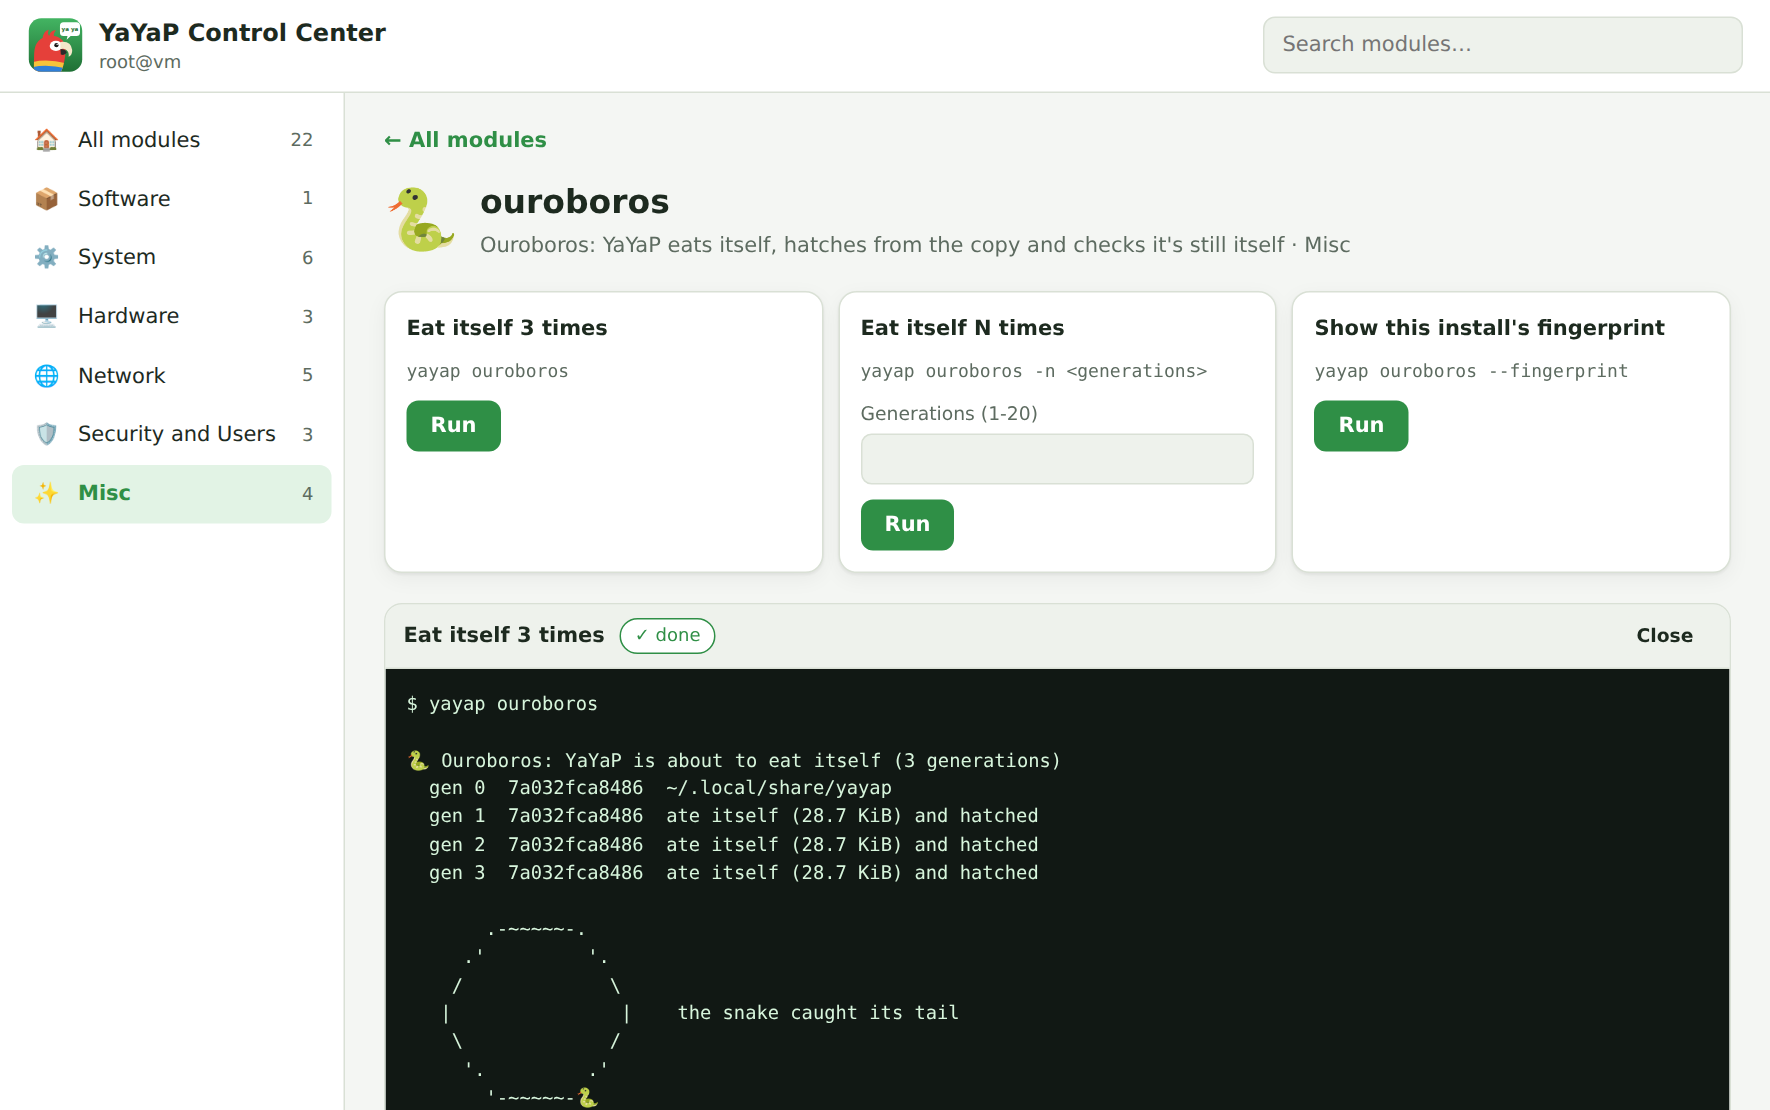
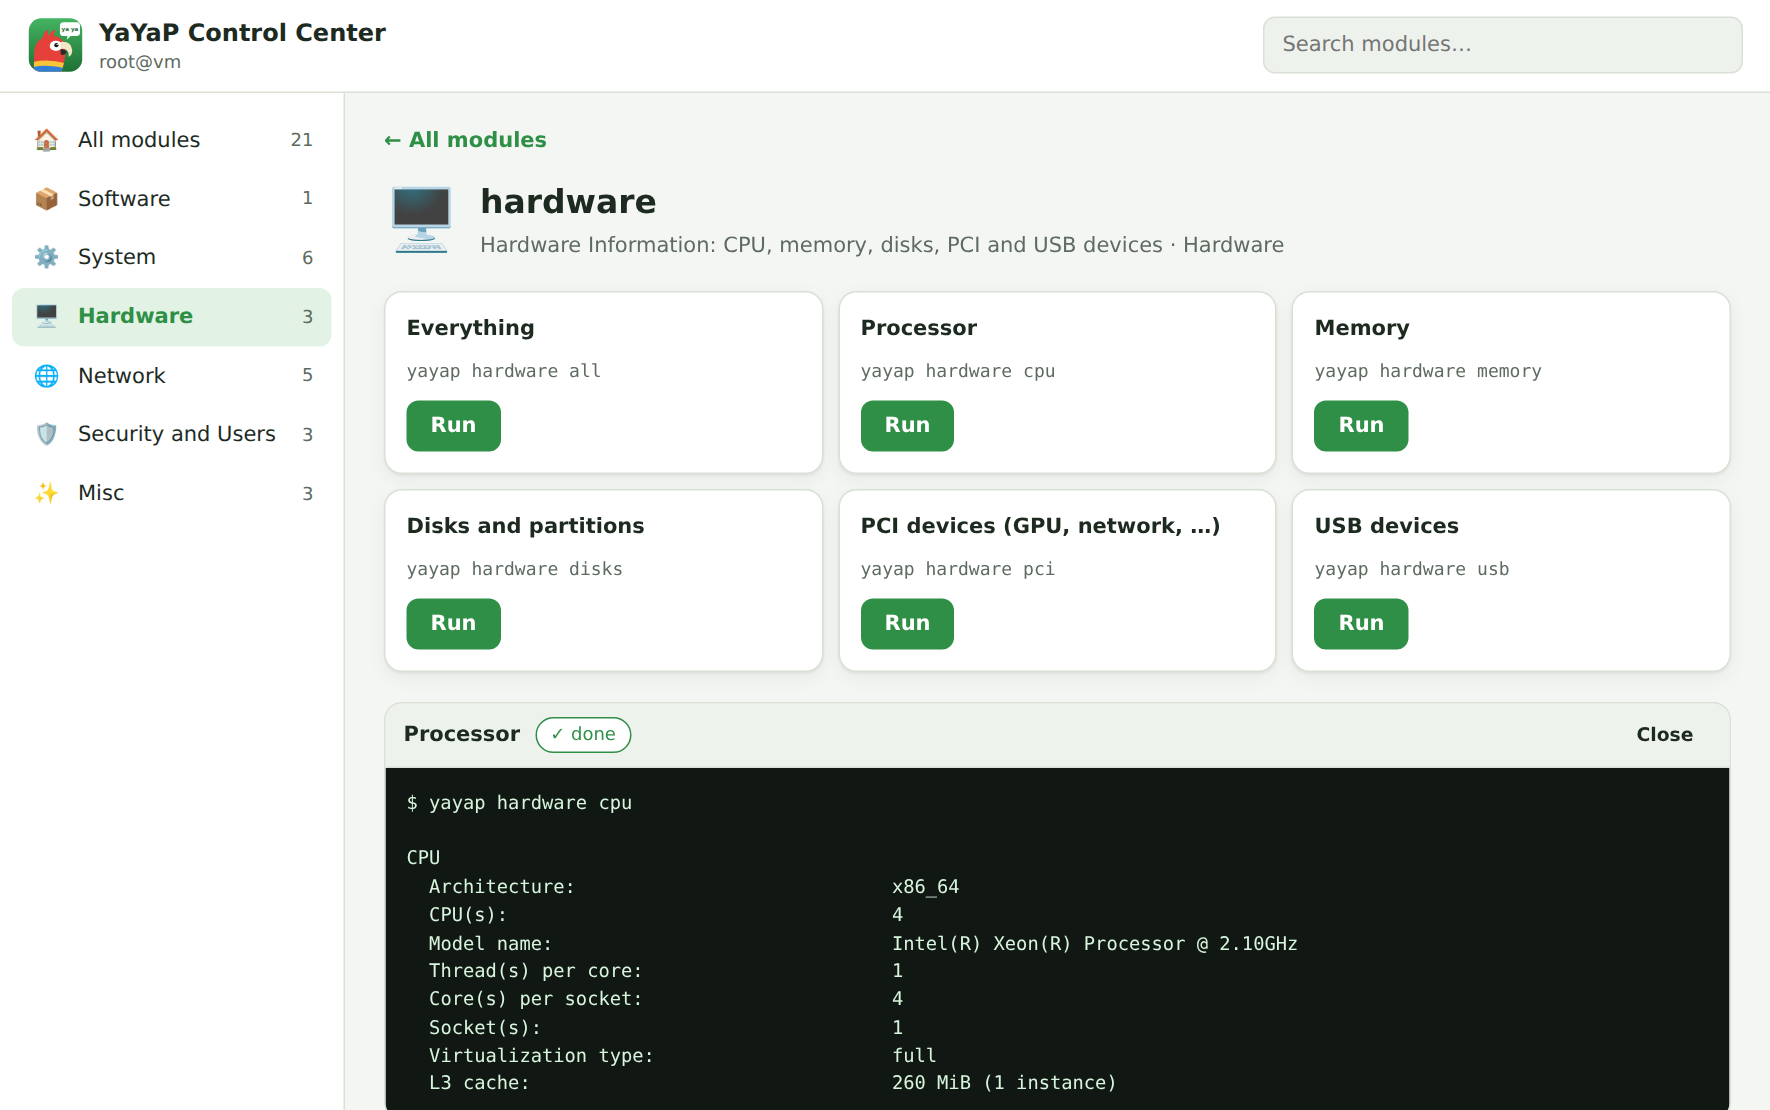
Remove the ouroboros (v0.4.1)
Drops the ouroboros module, its tests, the README section, and the
website's snake section, image and recorded run. The site's GUI
screenshot now shows the hardware module.

Claude-Session: https://claude.ai/code/session_013tVMPpAMwdRju3JtmdJvAv

diff --git a/site/index.html b/site/index.html
@@ -35,7 +35,7 @@
   a { color: var(--accent); }
   code, pre, kbd { font-family: ui-monospace, "JetBrains Mono", "DejaVu Sans Mono", Menlo, monospace; }
   .wrap { max-width: 1100px; margin: 0 auto; padding: 0 24px; }
-  .hero .wrap > *, .ouro .wrap > *, .split > * { min-width: 0; }   /* let code blocks scroll instead of widening the page */
+  .hero .wrap > *, .split > * { min-width: 0; }   /* let code blocks scroll instead of widening the page */
   @media (max-width: 480px) { .wrap { padding: 0 16px; } }
   section { padding: 84px 0; }
   section + section { border-top: 1px solid var(--border); }
@@ -104,33 +104,7 @@
   .cat .nm { font-family: ui-monospace, "DejaVu Sans Mono", monospace; font-weight: 700; font-size: 14.5px; }
   .cat .ab { color: var(--muted); font-size: 14px; }
 
-  /* ouroboros */
-  .ouro { background: var(--bg-2); }
-  .ouro .wrap { display: grid; grid-template-columns: .9fr 1.1fr; gap: 48px; align-items: center; }
-  .snake-stage { display: grid; place-items: center; }
-  .snake-box { position: relative; width: min(420px, 80vw); }
-  /* the ring isn't centred in the drawing: spin around the ring, not the picture */
-  .snake {
-    display: block; width: 100%; height: auto; transform-origin: 49.4% 53.4%;
-    animation: chase 40s linear infinite;
-    mix-blend-mode: multiply;   /* drops the drawing's white paper on light backgrounds */
-  }
-  @media (prefers-color-scheme: dark) { .snake { filter: invert(1); mix-blend-mode: screen; } }
-  @keyframes chase { to { transform: rotate(-360deg); } }
-  .snake.gulp { animation: chase 40s linear infinite, gulp .45s ease-out 2; }
-  @keyframes gulp { 50% { scale: 1.06; } }
-  @media (prefers-reduced-motion: reduce) { .snake, .snake.gulp { animation: none; } }
-  .gen-count { position: absolute; left: 49.4%; top: 53.4%; transform: translate(-50%, -50%); pointer-events: none; text-align: center; }
-  .gen-count b { display: block; font-size: 64px; line-height: 1; color: var(--accent); font-variant-numeric: tabular-nums; }
-  .gen-count span { color: var(--muted); font-size: 14px; }
-  .ouro .term { font-size: 12px; min-height: 290px; border-radius: 12px; border: 1px solid var(--border); }
-  .ouro-controls { display: flex; gap: 12px; align-items: center; margin: 18px 0 0; flex-wrap: wrap; }
-  .btn { border: 0; border-radius: 10px; padding: 10px 18px; font: inherit; font-weight: 650; cursor: pointer; background: var(--accent); color: var(--accent-ink); }
-  .btn:disabled { opacity: .55; cursor: default; }
-  .ouro ol { padding-left: 20px; color: var(--muted); margin: 0 0 22px; }
-  .ouro ol li { margin: 4px 0; }
-  .ouro ol code, .lede code { background: var(--accent-soft); color: var(--accent-2); padding: 0 6px; border-radius: 5px; font-size: .92em; }
-  @media (max-width: 900px) { .ouro .wrap { grid-template-columns: 1fr; } }
+  .lede code, .feat code { background: var(--accent-soft); color: var(--accent-2); padding: 0 6px; border-radius: 5px; font-size: .92em; }
 
   /* add your own */
   .split { display: grid; grid-template-columns: 1fr 1fr; gap: 24px; align-items: start; }
@@ -156,7 +130,6 @@
     <nav>
       <a href="#ways">Three ways in</a>
       <a href="#modules">Modules</a>
-      <a href="#ouroboros">Ouroboros</a>
       <a href="#extend">Extend it</a>
       <a class="gh" href="https://github.com/clrealy/YaYaP">GitHub ↗</a>
     </nav>
@@ -200,7 +173,7 @@
         <div class="way">
           <h3>🖥 Desktop app</h3>
           <p><code class="run">yayap gui</code> Categories, module tiles, live output. sudo passwords pop up as dialogs.</p>
-          <div class="shot"><img src="img/gui.png" alt="The YaYaP Control Center app, running the ouroboros module" loading="lazy" width="1770" height="1110"></div>
+          <div class="shot"><img src="img/gui.png" alt="The YaYaP Control Center app" loading="lazy" width="1770" height="1110"></div>
         </div>
         <div class="way">
           <h3>⌨ Terminal UI</h3>
@@ -213,7 +186,7 @@
 <span class="dim">│</span>    Hardware           3 modules         <span class="dim">│</span>
 <span class="dim">│</span>    Network            5 modules         <span class="dim">│</span>
 <span class="dim">│</span>    Security and Users 3 modules         <span class="dim">│</span>
-<span class="dim">│</span>    Misc               <span id="misc-count">4</span> modules         <span class="dim">│</span>
+<span class="dim">│</span>    Misc               <span id="misc-count">3</span> modules         <span class="dim">│</span>
 <span class="dim">│</span>                                         <span class="dim">│</span>
 <span class="dim">│</span>        &lt;Ok&gt;              &lt;Quit&gt;         <span class="dim">│</span>
 <span class="dim">└─────────────────────────────────────────┘</span></pre></div>
@@ -229,7 +202,7 @@
 <span class="dim">$</span> yayap datetime set-tz Europe/Berlin
 <span class="dim">$</span> yayap logs -e -b
 <span class="dim">$</span> yayap hardware usb
-<span class="dim">$</span> yayap ouroboros
+<span class="dim">$</span> yayap clean --force
 <span class="dim">$</span> yayap yap <span class="g">"hi"</span></pre></div>
         </div>
       </div>
@@ -245,32 +218,6 @@
     </div>
   </section>
 
-  <section id="ouroboros" class="ouro">
-    <div class="wrap">
-      <div class="snake-stage">
-        <div class="snake-box">
-          <img class="snake" id="snake" src="img/ouroboros.png" alt="An ouroboros: a snake eating its own tail" width="496" height="547">
-          <div class="gen-count" aria-live="polite"><b id="gen">0</b><span>generations eaten</span></div>
-        </div>
-      </div>
-      <div>
-        <p class="eyebrow">yayap ouroboros</p>
-        <h2>The snake that eats itself 🐍</h2>
-        <p class="lede">"Yet Another 'Yet Another'" already eats its own tail, so YaYaP does too:</p>
-        <ol>
-          <li>It packs itself up with its own <code>backup</code> module…</li>
-          <li>…unpacks the copy with its own <code>extract</code> module…</li>
-          <li>…and hands over to that copy, which does it all again.</li>
-          <li>The last copy compares its fingerprint with the first. Same bytes? The snake caught its tail.</li>
-        </ol>
-        <pre class="term" id="ouro-term"><span class="dim">$</span> yayap ouroboros</pre>
-        <div class="ouro-controls">
-          <button class="btn" id="feed">Feed the snake</button>
-          <span style="color:var(--muted);font-size:14px">This is a real run, recorded when the site was built.</span>
-        </div>
-      </div>
-    </div>
-  </section>
 
   <section id="extend">
     <div class="wrap split">
@@ -318,7 +265,7 @@ A
 <script src="data.js"></script>
 <script>
 "use strict";
-const D = window.YAYAP || { version: "", categories: [], ouroboros: [] };
+const D = window.YAYAP || { version: "", categories: [] };
 const CAT_ICONS = { "Software": "📦", "System": "⚙", "Hardware": "🖥", "Network": "🌐", "Security and Users": "🛡", "Misc": "✨" };
 
 function h(tag, attrs, ...kids) {
@@ -363,29 +310,6 @@ document.getElementById("cats").replaceChildren(...D.categories.map(c =>
         h("span", { class: "nm" }, m.name),
         h("span", { class: "ab" }, m.about)))))));
 
-// the snake
-const term = document.getElementById("ouro-term");
-const feed = document.getElementById("feed");
-const snake = document.getElementById("snake");
-const genEl = document.getElementById("gen");
-const reduced = matchMedia("(prefers-reduced-motion: reduce)").matches;
-let total = 0;
-feed.addEventListener("click", async () => {
-  feed.disabled = true;
-  term.replaceChildren(h("span", { class: "dim" }, "$"), " yayap ouroboros\n");
-  for (const line of D.ouroboros) {
-    await new Promise(r => setTimeout(r, reduced ? 0 : (line.includes("hatched") ? 520 : 70)));
-    const m = line.match(/^\s+gen (\d+)/);
-    if (m && +m[1] > 0) {
-      total++; genEl.textContent = total;
-      snake.classList.remove("gulp"); void snake.offsetWidth; snake.classList.add("gulp");
-    }
-    term.append(/caught its tail|✔/.test(line) ? h("span", { class: "g" }, line) : line, "\n");
-    term.scrollTop = term.scrollHeight;
-  }
-  feed.textContent = "Feed it again";
-  feed.disabled = false;
-});
 </script>
 </body>
 </html>

diff --git a/README.md b/README.md
@@ -114,7 +114,6 @@ yayap center --list   # print every module and action as a tree
 | Security and Users | `users` | User and Group Management: list, add, delete, passwords, groups |
 | Security and Users | `firewall` | Status, open/close ports, on/off (ufw or firewalld) |
 | Security and Users | `passgen` | Random passwords (`-l LEN`, `-c COUNT`, `-s` simple) |
-| Misc | `ouroboros` | The snake eats itself: YaYaP backs itself up, hatches from the copy, N times, and checks it's still byte-for-byte itself 🐍 |
 | Misc | `extract` | Extract tar/zip/7z/rar/gz/bz2/xz/zst/deb/rpm |
 | Misc | `weather` | Terminal weather via wttr.in |
 | Misc | `yap` | A cow-ish yak dispensing wisdom |
@@ -141,27 +140,10 @@ yayap clean --force
 yayap extract stuff.tar.zst -d out/
 ```
 
-## The ouroboros 🐍
-
-"Yet Another 'Yet Another'" already eats its own tail, so YaYaP does too:
-
-```sh
-yayap ouroboros            # 3 generations
-yayap ouroboros -n 10
-yayap ouroboros --fingerprint
-```
-
-YaYaP packs itself up with its own `backup` module, unpacks the copy with its
-own `extract` module, and hands over to the copy, which does it all again. The
-last generation compares its fingerprint (sha256 of `bin/` + `lib/`) with the
-first one's. If they match, the snake caught its tail, which also proves the
-install can rebuild itself from its own backups.
-
 ## Website
 
 The site lives in [`site/`](site). `tools/build-site.sh` builds it into
-`_site/` with live data from the code (the module list, the version, and a real
-`yayap ouroboros` run), and `.github/workflows/pages.yml` publishes it to
+`_site/` with live data from the code (the module list and the version), and `.github/workflows/pages.yml` publishes it to
 GitHub Pages from the default branch.
 
 ## Adding your own command
